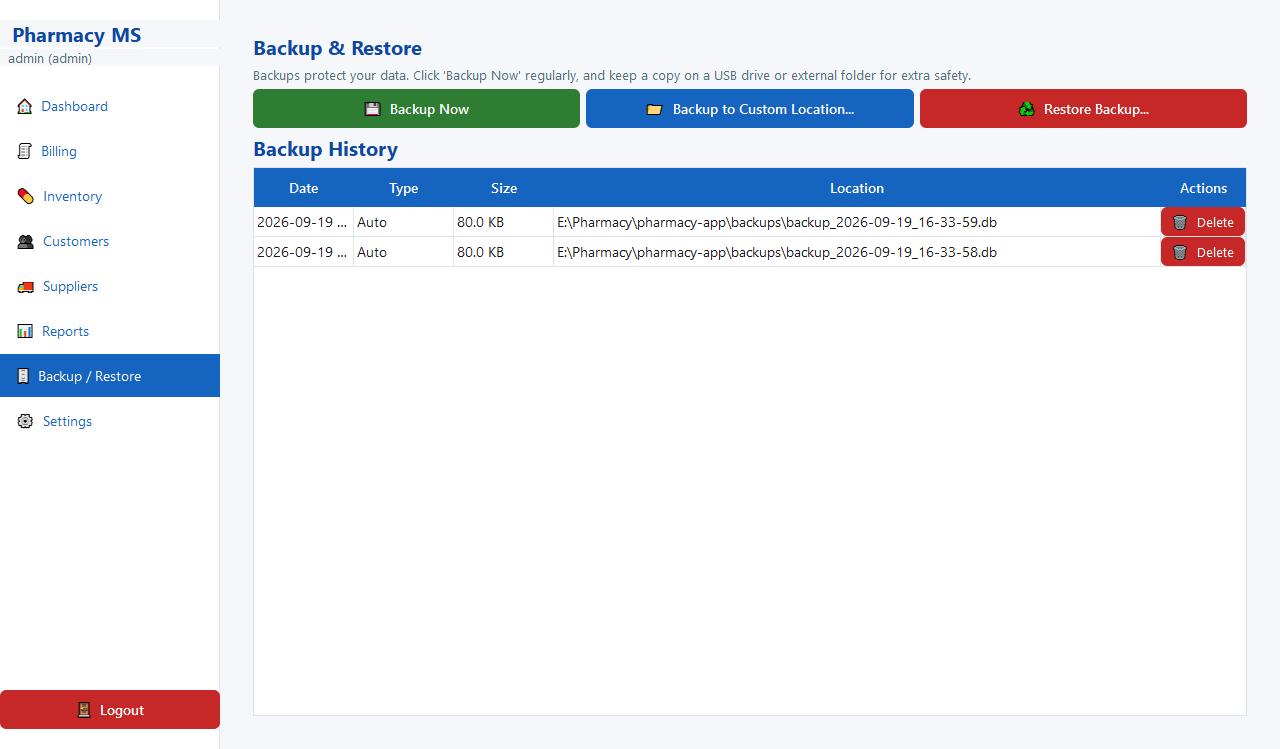
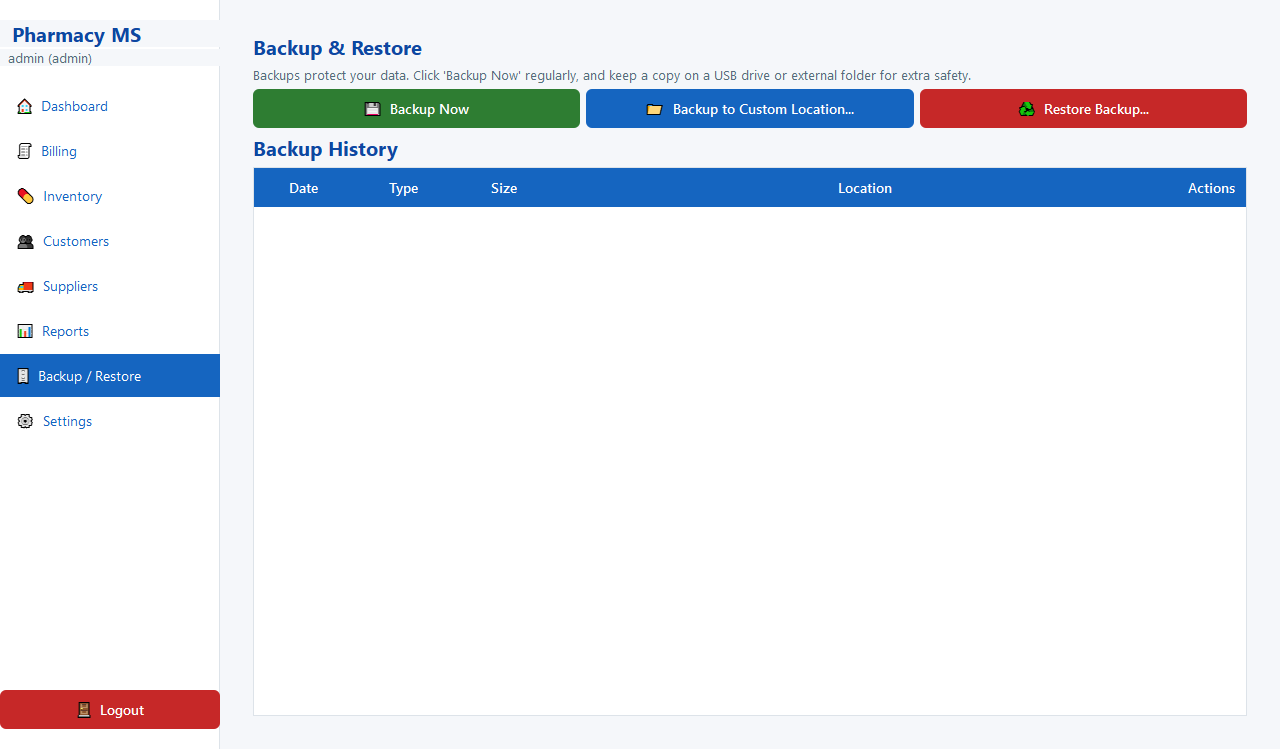
Full QA pass: fix critical restore/billing bugs, case-insensitive usernames, UI polish
Found and fixed by systematically exercising every module with edge cases:

- CRITICAL: restore_backup() accepted any file without validation -- selecting
  a corrupted or unrelated file silently destroyed the live database with no
  way back. Now validates the file is a real SQLite DB with the expected
  tables (and passes PRAGMA integrity_check) before touching anything.
- Billing: a discount greater than the subtotal produced a negative sale
  total and was accepted by checkout(). Added validation in checkout() and
  capped the discount spinbox to the current subtotal in the UI so it can't
  even be entered.
- Auth: usernames were case-sensitive, so "admin" and "Admin" were treated
  as different accounts (both at signup and at login). Now compared
  case-insensitively (COLLATE NOCASE) in both places.
- Billing checkout and the four main edit dialogs (medicine/customer/
  supplier/user) now also catch unexpected exceptions with a clear message
  instead of only handling the expected ValueError case.
- UI polish: Suppliers/Customers table columns were too narrow and
  truncated names/phone numbers; Settings' Save button and inputs were
  stretched to the full page width. Added README screenshots for Customers,
  Suppliers, Settings, and the cashier's restricted view.

Verified with a full regression pass across auth, inventory, suppliers,
customers, billing, barcode, reports, backup/restore, and settings after
every fix.

diff --git a/logic/backup.py b/logic/backup.py
@@ -11,12 +11,44 @@ Design notes (this module is the app's top priority per spec):
   usage stays bounded; manual backups are never auto-deleted.
 """
 import shutil
+import sqlite3
 from dataclasses import dataclass
 from datetime import datetime
 from pathlib import Path
 from typing import Optional
 
 from database.db_manager import BACKUP_DIR, DATA_DIR, DB_PATH, get_connection
+
+# Tables that must be present for a file to be trusted as a real backup of
+# this app's database, rather than some unrelated or corrupted file.
+_REQUIRED_TABLES = {"users", "medicines", "sales", "sale_items", "customers", "suppliers"}
+
+
+def _validate_backup_file(path: Path) -> None:
+    """Raise ValueError if `path` is not a usable backup of this app's DB.
+    Restoring a corrupt/unrelated file would otherwise silently destroy the
+    live database, so this check runs before anything is touched."""
+    try:
+        conn = sqlite3.connect(f"file:{path}?mode=ro", uri=True)
+        try:
+            integrity = conn.execute("PRAGMA integrity_check").fetchone()[0]
+            if integrity != "ok":
+                raise ValueError(f"Backup file failed an integrity check: {integrity}")
+            tables = {
+                row[0]
+                for row in conn.execute("SELECT name FROM sqlite_master WHERE type='table'")
+            }
+        finally:
+            conn.close()
+    except sqlite3.DatabaseError as e:
+        raise ValueError(f"This file is not a valid database backup: {e}")
+
+    missing = _REQUIRED_TABLES - tables
+    if missing:
+        raise ValueError(
+            "This file doesn't look like a Pharmacy Management System backup "
+            f"(missing tables: {', '.join(sorted(missing))})."
+        )
 
 AUTO_BACKUP_RETENTION = 15
 
@@ -178,6 +210,8 @@ def restore_backup(backup_file_path: str) -> None:
     src = Path(backup_file_path)
     if not src.exists():
         raise FileNotFoundError("Selected backup file does not exist.")
+
+    _validate_backup_file(src)
 
     # Safety copy of the current DB in case the restore needs to be undone.
     DATA_DIR.mkdir(parents=True, exist_ok=True)

diff --git a/ui/suppliers_view.py b/ui/suppliers_view.py
@@ -64,6 +64,8 @@ class SupplierEditDialog(QDialog):
             self.accept()
         except ValueError as e:
             QMessageBox.warning(self, "Cannot save", str(e))
+        except Exception as e:
+            QMessageBox.critical(self, "Cannot save", f"An unexpected error occurred:\n{e}")
 
 
 class PurchaseOrderDialog(QDialog):
@@ -119,6 +121,8 @@ class PurchaseOrderDialog(QDialog):
             self.accept()
         except ValueError as e:
             QMessageBox.warning(self, "Cannot save", str(e))
+        except Exception as e:
+            QMessageBox.critical(self, "Cannot save", f"An unexpected error occurred:\n{e}")
 
 
 class SuppliersView(QWidget):
@@ -146,6 +150,8 @@ class SuppliersView(QWidget):
 
         self.table = QTableWidget(0, 4)
         self.table.setHorizontalHeaderLabels(["Name", "Contact", "Address", "Actions"])
+        self.table.setColumnWidth(0, 200)
+        self.table.setColumnWidth(1, 140)
         self.table.horizontalHeader().setSectionResizeMode(2, QHeaderView.Stretch)
         self.table.horizontalHeader().setSectionResizeMode(3, QHeaderView.ResizeToContents)
         self.table.setSelectionBehavior(QAbstractItemView.SelectRows)

diff --git a/ui/billing_view.py b/ui/billing_view.py
@@ -216,6 +216,11 @@ class BillingView(QWidget):
         self._render_cart()
 
     def _recalculate(self):
+        # Discount can never exceed the subtotal (would otherwise produce a
+        # negative total); cap the spinbox itself so it's not even possible
+        # to type an invalid value.
+        self.discount_input.setMaximum(max(self.cart.subtotal, 0.0))
+
         self.cart.discount = self.discount_input.value()
         self.cart.tax_percent = self.tax_input.value()
         self.totals_label.setText(
@@ -243,6 +248,11 @@ class BillingView(QWidget):
             receipt = sales.checkout(self.cart, cashier_id=self.current_user.id, customer_id=customer_id)
         except ValueError as e:
             QMessageBox.warning(self, "Checkout failed", str(e))
+            return
+        except Exception as e:
+            # Anything unexpected (e.g. a database-level error) should still
+            # surface as a clear message rather than an unhandled crash.
+            QMessageBox.critical(self, "Checkout failed", f"The sale could not be completed:\n{e}")
             return
 
         customer_name = self.customer_input.currentText()

diff --git a/ui/settings_view.py b/ui/settings_view.py
@@ -23,18 +23,23 @@ class GeneralSettingsTab(QWidget):
 
         self.low_stock_input = QSpinBox()
         self.low_stock_input.setRange(0, 100_000)
+        self.low_stock_input.setMaximumWidth(160)
         self.low_stock_input.setValue(settings.get_low_stock_threshold())
         layout.addRow("Default low-stock threshold (units)", self.low_stock_input)
 
         self.expiry_days_input = QSpinBox()
         self.expiry_days_input.setRange(1, 3650)
+        self.expiry_days_input.setMaximumWidth(160)
         self.expiry_days_input.setValue(settings.get_expiry_alert_days())
         layout.addRow("Expiry alert window (days)", self.expiry_days_input)
 
         save_btn = QPushButton("💾  Save Settings")
         save_btn.setProperty("success", True)
         save_btn.clicked.connect(self._save)
-        layout.addRow(save_btn)
+        save_row = QHBoxLayout()
+        save_row.addWidget(save_btn)
+        save_row.addStretch()
+        layout.addRow(save_row)
 
         note = QLabel(
             "The low-stock threshold applies to newly added medicines by default; "

diff --git a/logic/auth.py b/logic/auth.py
@@ -36,7 +36,7 @@ def login(username: str, password: str) -> Optional[User]:
     conn = get_connection()
     try:
         row = conn.execute(
-            "SELECT * FROM users WHERE username = ?", (username.strip(),)
+            "SELECT * FROM users WHERE username = ? COLLATE NOCASE", (username.strip(),)
         ).fetchone()
         if row is None or not row["is_active"]:
             return None
@@ -68,7 +68,7 @@ def create_user(username: str, password: str, full_name: str, role: str) -> User
     conn = get_connection()
     try:
         existing = conn.execute(
-            "SELECT id FROM users WHERE username = ?", (username,)
+            "SELECT id FROM users WHERE username = ? COLLATE NOCASE", (username,)
         ).fetchone()
         if existing:
             raise ValueError(f"Username '{username}' already exists.")

diff --git a/ui/inventory_view.py b/ui/inventory_view.py
@@ -48,7 +48,7 @@ class MedicineEditDialog(QDialog):
         self.generic_input = QLineEdit()
         self.category_input = QLineEdit()
         self.barcode_input = QLineEdit()
-        self.barcode_input.setPlaceholderText("Scan or type barcode (optional)")
+        self.barcode_input.setPlaceholderText("Optional")
         self.batch_input = QLineEdit()
 
         self.expiry_input = QDateEdit()
@@ -165,6 +165,8 @@ class MedicineEditDialog(QDialog):
             self.accept()
         except ValueError as e:
             QMessageBox.warning(self, "Cannot save", str(e))
+        except Exception as e:
+            QMessageBox.critical(self, "Cannot save", f"An unexpected error occurred:\n{e}")
 
     def _generate_barcode(self):
         self.barcode_input.setText(barcode_utils.generate_unique_barcode())

diff --git a/ui/customers_view.py b/ui/customers_view.py
@@ -54,6 +54,8 @@ class CustomerEditDialog(QDialog):
             self.accept()
         except ValueError as e:
             QMessageBox.warning(self, "Cannot save", str(e))
+        except Exception as e:
+            QMessageBox.critical(self, "Cannot save", f"An unexpected error occurred:\n{e}")
 
 
 class CustomerHistoryDialog(QDialog):
@@ -113,6 +115,7 @@ class CustomersView(QWidget):
 
         self.table = QTableWidget(0, 4)
         self.table.setHorizontalHeaderLabels(["Name", "Phone", "", "Actions"])
+        self.table.setColumnWidth(1, 140)
         self.table.horizontalHeader().setSectionResizeMode(0, QHeaderView.Stretch)
         self.table.horizontalHeader().setSectionResizeMode(3, QHeaderView.ResizeToContents)
         self.table.setSelectionBehavior(QAbstractItemView.SelectRows)

diff --git a/logic/sales.py b/logic/sales.py
@@ -96,6 +96,10 @@ def checkout(cart: Cart, cashier_id: int, customer_id: int = None) -> dict:
     stock, all inside one transaction. Returns a receipt dict for printing."""
     if not cart.items:
         raise ValueError("Cannot checkout an empty cart.")
+    if cart.discount < 0:
+        raise ValueError("Discount cannot be negative.")
+    if cart.discount > cart.subtotal:
+        raise ValueError("Discount cannot exceed the subtotal.")
 
     conn = get_connection()
     try:

diff --git a/README.md b/README.md
@@ -22,9 +22,17 @@ No internet connection is required for any feature.
 |---|---|
 | ![Inventory management with barcode column and expiry/low-stock highlighting](screenshots/inventory.png) | ![Billing screen with a cart and totals](screenshots/billing.png) |
 
+| Customers | Suppliers |
+|---|---|
+| ![Customer management](screenshots/customers.png) | ![Supplier management with purchase orders](screenshots/suppliers.png) |
+
 | Reports | Backup & Restore |
 |---|---|
 | ![Daily sales report](screenshots/reports.png) | ![Backup and restore with history](screenshots/backup_restore.png) |
+
+| Settings | Cashier role (restricted view) |
+|---|---|
+| ![Settings and user management](screenshots/settings.png) | ![Cashier sees only billing and read-only inventory/customers/reports](screenshots/cashier_view_inventory_readonly.png) |
 
 ## Project structure
 
